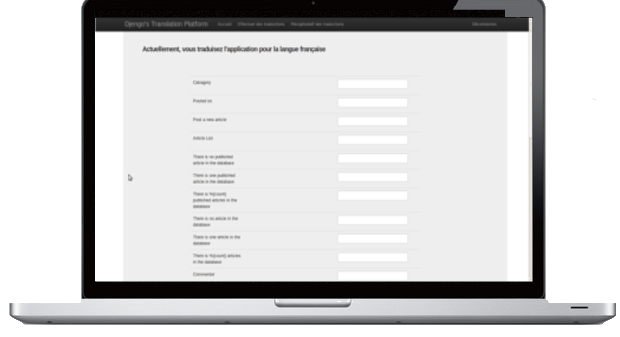
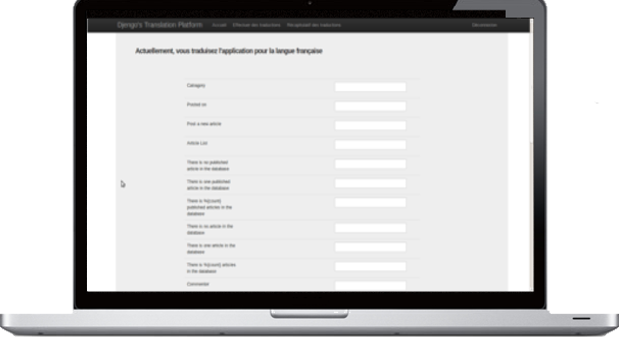
Modification de l'aspect de l'application / remaniement du code web

Changed region(s): [[0.0, 0.0, 1.0, 1.0], [0.1839, 0.5045, 0.2145, 0.5638], [0.3065, 0.2374, 0.3371, 0.2671]]

diff --git a/app/assets/stylesheets/tolk_engine/style.css.less b/app/assets/stylesheets/tolk_engine/style.css.less
@@ -4,6 +4,10 @@
   border-bottom: 2px solid #999;
 }
 
+img {
+  max-width: 610px;
+}
+
 .home {
   margin-left: 200px;
 }
@@ -18,6 +22,7 @@
 
 .hero-unit {
   padding-top: 10px;
+  min-height: 100%
 }
 
 .hero-unit h1 {
@@ -31,8 +36,13 @@
 }
 
 .hero-unit img {
-  float: left;
-  margin-left: -50px;
+  float: none;
+}
+
+.floating-btn {
+  float: none;
+  margin: 20px 200px;
+  width: 200px;
 }
 
 .hero-unit table {
@@ -91,14 +101,17 @@
 }
 
 #home {
+  width: 600px;
+  margin: 5px;
+  float: none;
   font-size: 26px;
   color: #545454;
   line-height: 26px;
-  text-align: center;
   -webkit-text-shadow: 1px 1px 1px #A19191;
   -moz-text-shadow: 1px 1px 1px #A19191;
   text-shadow: 1px 1px 1px #A19191;
   h1 {
+    text-align: center;
     font-size: 36px;
     -webkit-text-shadow: 2px 2px 2px #A19191;
     -moz-text-shadow: 2px 2px 2px #A19191;
@@ -124,7 +137,12 @@
 }
 
 .center {
+  font-style: italic;
+  vertical-align: middle;
   text-align: center;
+  img {
+    margin: 20px;
+  }
 }
 
 #white-border {
@@ -166,6 +184,10 @@
 
 .offset40 {
   margin-left: 40px;
+}
+
+#span100 {
+  width: 100px;
 }
 
 .span3-5 {
@@ -292,4 +314,28 @@ textarea{
     -moz-border-radius: 5px;
     border-radius: 5px;
   }
+}
+
+#custom_footer {
+  float: right;
+  margin-right: 50px;
+}
+
+.right-0 {
+  right: 0px;
+}
+
+.alert .close {
+  right: 0px;
+}
+
+.hero-unit table{
+  font-size: 13px;
+  margin-left: 0px;
+}
+
+.grey {
+  color: lighten(black, 90);
+  font-style: italic;
+  font-size: 13px;
 }

diff --git a/app/domain/tolk_engine/yml_loader.rb b/app/domain/tolk_engine/yml_loader.rb
@@ -10,7 +10,7 @@ module TolkEngine
         file_path = file.sub!(/config\/locales\//,"").to_s
         file_name = file.to_s
         new_yml_source.path = file_path
-        new_yml_source.name = file_name.sub(/\/en.yml/,"").sub(/\./,"").sub(/[\/]/,"_")
+        new_yml_source.name = file_name.sub(/\/en.yml/,"").sub(/\.yml/,"").sub(/[\/]/,"_")
         new_yml_source.save if YmlSource.find_by_path(file).nil?
       end
     end

diff --git a/app/controllers/tolk_engine/custom_devise/sessions_controller.rb b/app/controllers/tolk_engine/custom_devise/sessions_controller.rb
@@ -1,0 +1,15 @@
+module TolkEngine
+  class CustomDevise::SessionsController < Devise::SessionsController
+    layout "tolk_engine/layouts/tolk_engine"
+
+    def new
+      @locales = Locale.all
+      super
+    end
+
+    def create
+      @locales = Locale.all
+      super
+    end
+  end
+end

diff --git a/app/controllers/tolk_engine/sessions_controller.rb b/app/controllers/tolk_engine/sessions_controller.rb
@@ -1,0 +1,16 @@
+module TolkEngine
+  class SessionsController < Devise::SessionsController
+    layout "tolk_engine/layouts/tolk_engine"
+    def new
+      super
+    end
+
+    def create
+      # add custom create logic here
+    end
+
+    def update
+      super
+    end
+  end
+end
